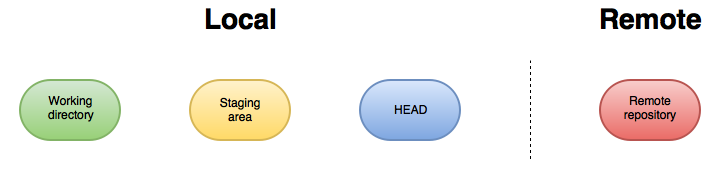
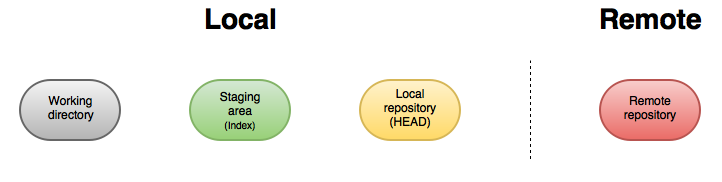
Modified old image and added new git commands pictures

Changed region(s): [[0.4875, 0.4121, 0.6399, 0.7967], [0.2438, 0.4121, 0.4266, 0.7967], [0.0, 0.4121, 0.1828, 0.7967]]

diff --git a/devops/git/README.md b/devops/git/README.md
@@ -299,13 +299,14 @@ As shown in the image above, Git project is made up of:
 * Local repository: local work area is split into:
 	* Working directory: folders/files that you are currently working on.
 	* Staging area (Index): is a holding area for changes that will be committed, so you can control what parts of the working tree go into the next level.
-	* HEAD: a reference to a specific commit and it serves two major purposes: it tells Git which commit to take files from when checkout is executed and it tells Git where to put new commits when commit is executed.
+	* Local Repository (HEAD): a reference to a specific commit and it serves two major purposes: it tells Git which commit to take files from when checkout is executed and it tells Git where to put new commits when commit is executed.
 
-* Remote repository: place where code is stored as GitHub, Bitbucket, etc.
+* Remote repository: place where code is stored like GitHub, Bitbucket, etc.
 
 
 ### Useful commands
 
+Once we know the stage of Git project we can start using Git commands, a little example is shown in below image
 
 
 ## Tips
